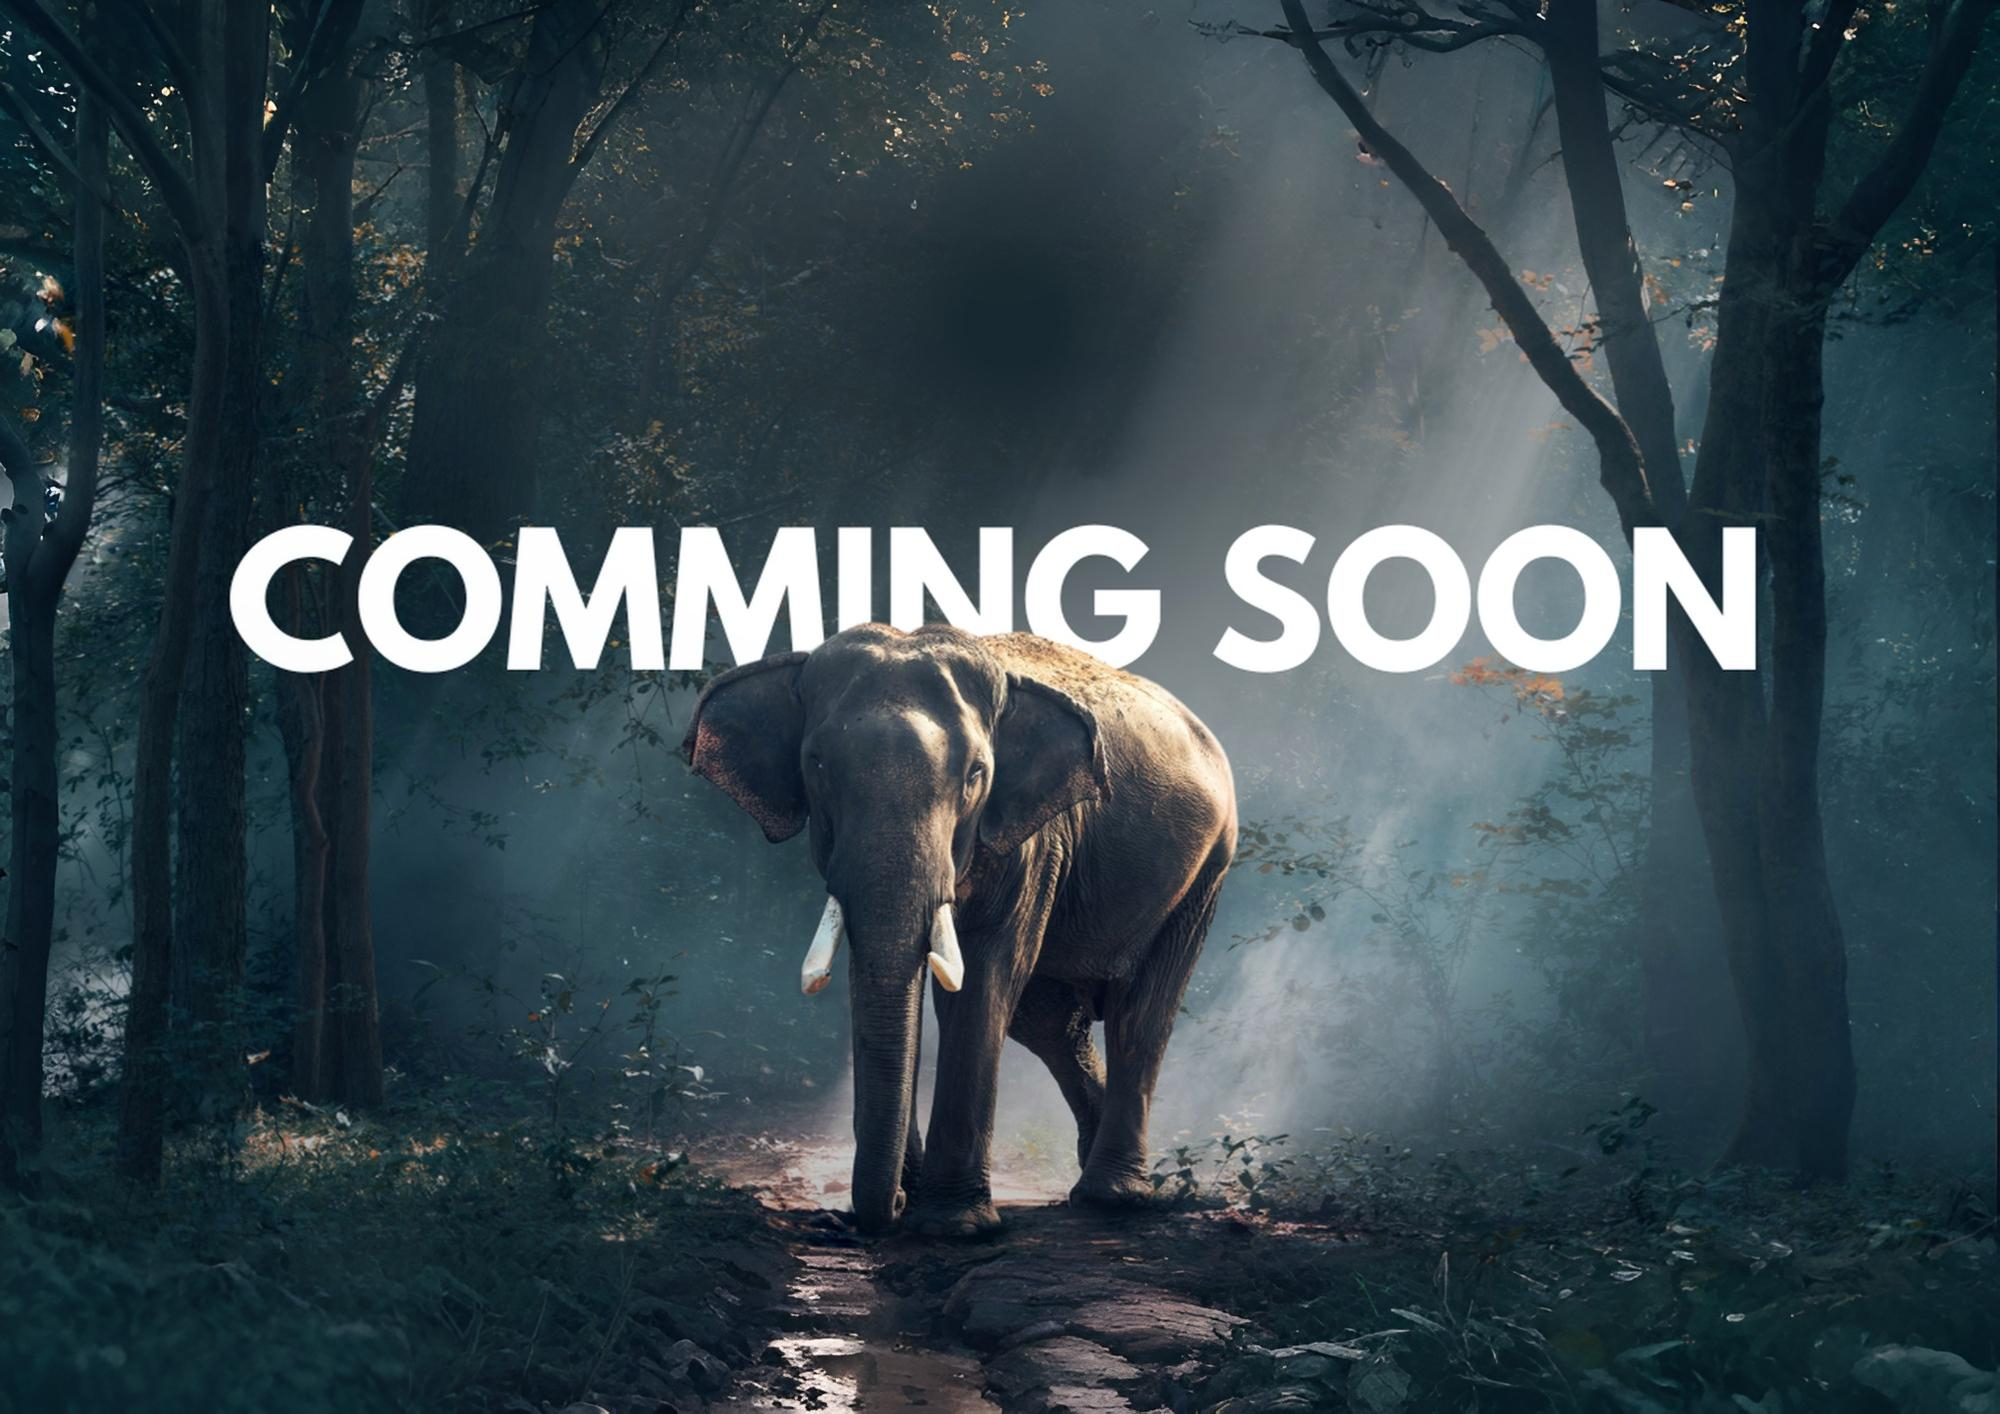
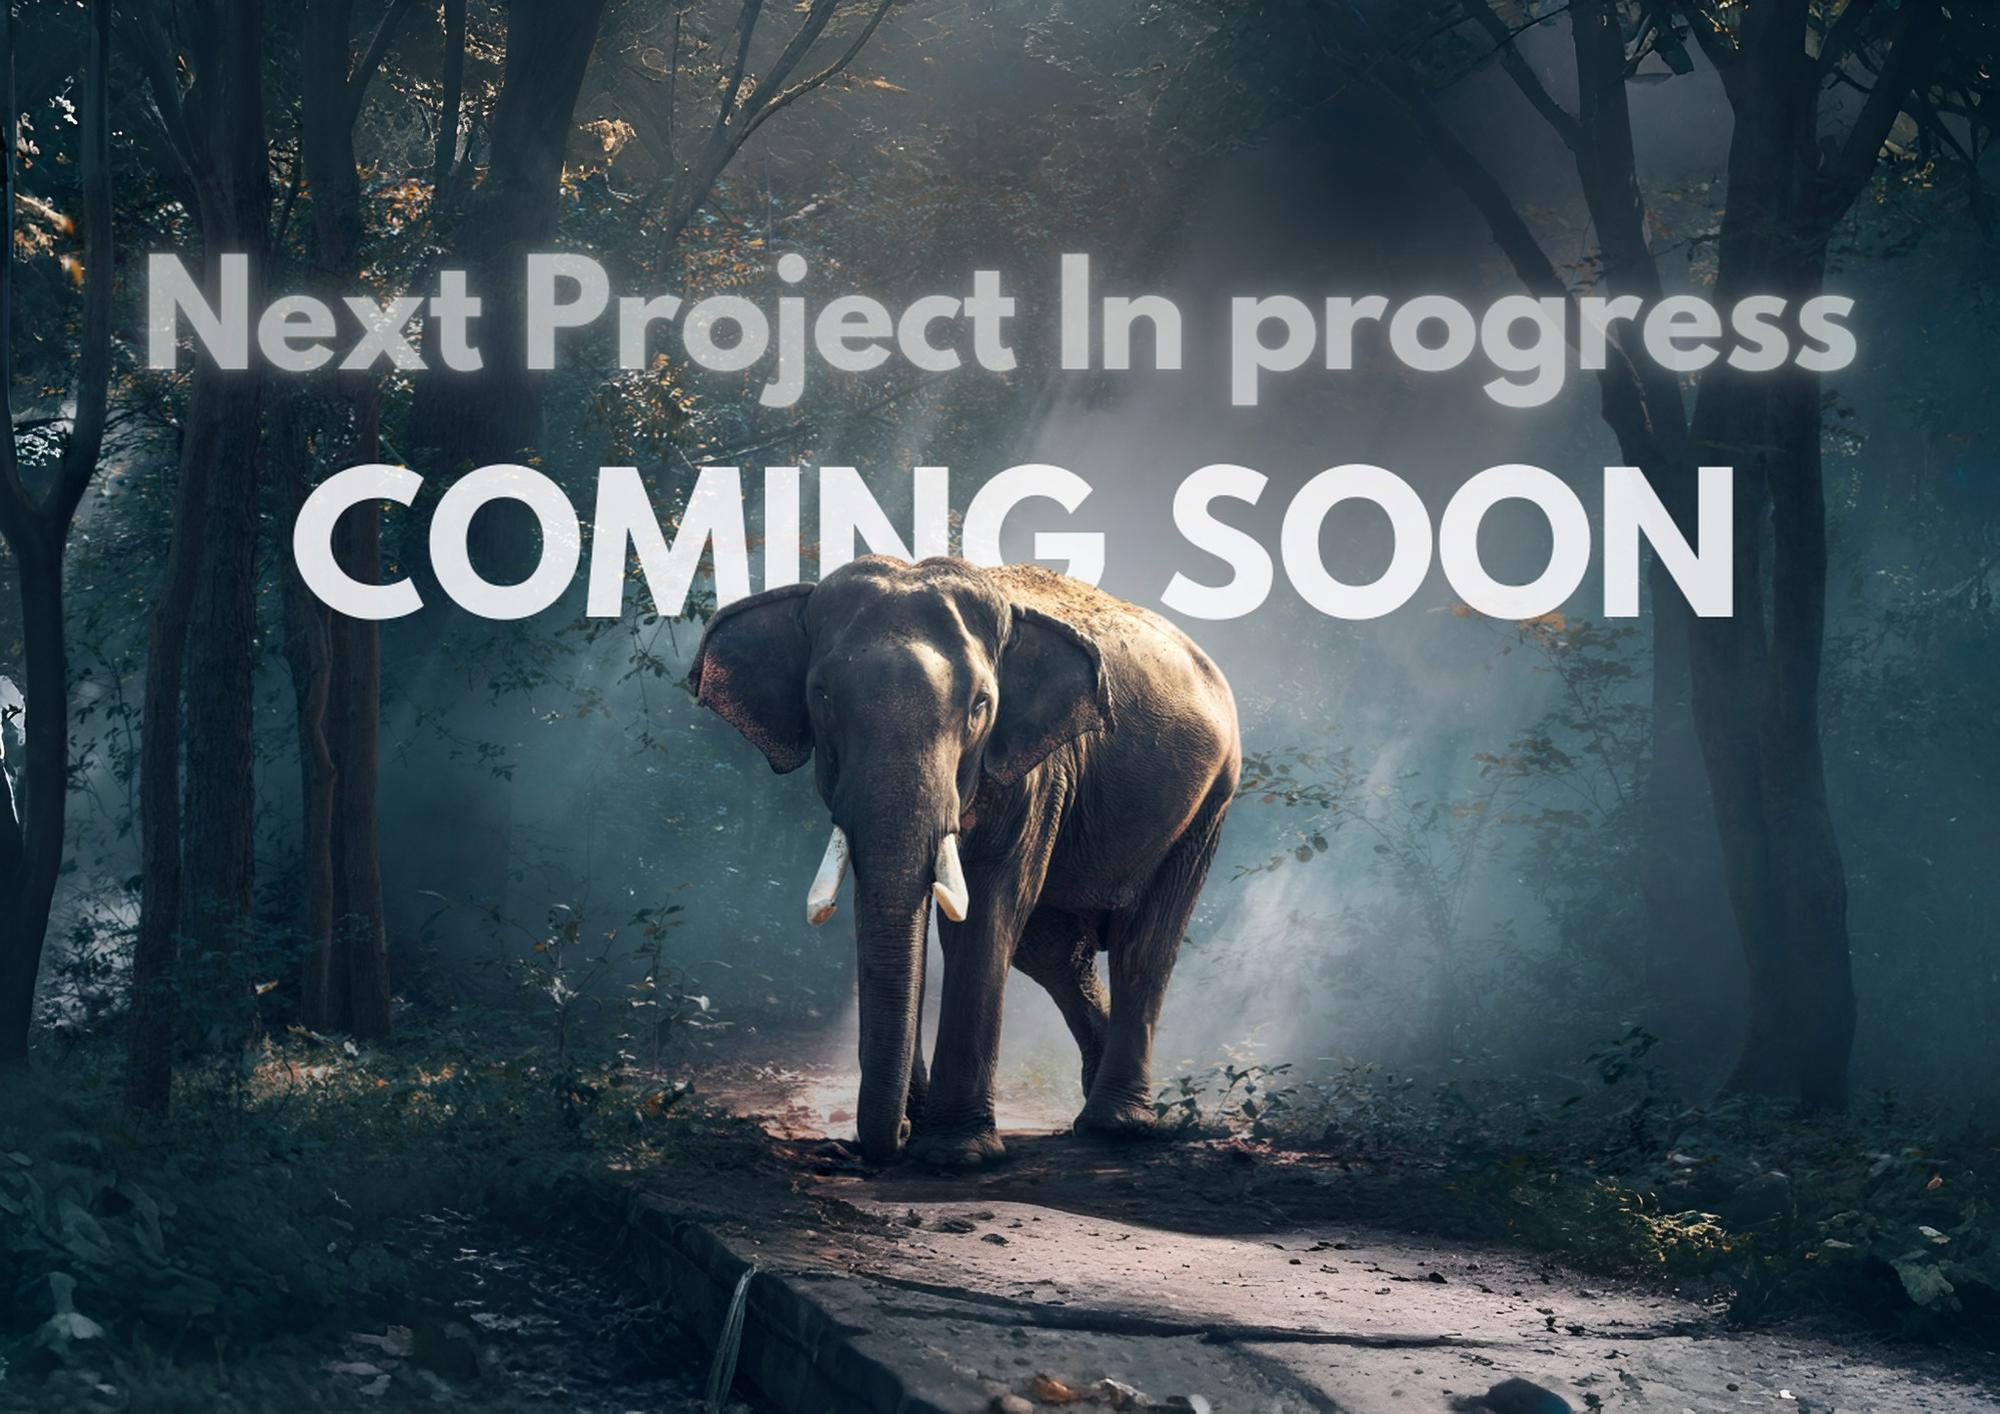
updated up comming project image

diff --git a/about.html b/about.html
@@ -38,7 +38,7 @@
 					<a href="index.html"> Home </a>
 					<a href="about.html"> About </a>
 					<a href="projects.html"> Projects </a>
-					<a href="favourite.html"> Interests </a>
+					<a href="Interests.html"> Interests </a>
 					<a href="photography.html"> Photography </a>
 					<a href="contact.html"> Contact </a>
 				</div>	
@@ -66,7 +66,7 @@
 				<h1> <span class="down-border">Abo</span>ut Me </h1>
 			</div>
 			
-			<p class="my-desc">My name is Kawsar Hussain. I'm a student. Programming is my passion. I'm very interested to this. Photography is my favourite hobby. I love listening music, watching movies and internet browsing. I'm not a computer science student, but I love programming. This is my aim. I want to be a professional web developer. Keep me in your prayers.</p>
+			<p class="my-desc">Hi, I’m Kawsar Hussain! I’m a student who’s truly passionate about programming. I'm very interested to this.  Photography is my favourite hobby. I'm not a computer science student, but I love programming. I aspire to become a full-stack web developer. I believe in learning beyond boundaries and following what I love. Keep me in your prayers.</p>
 
 			<div class="bio">
 				<div class="col-6">

diff --git a/Interests.html b/Interests.html
@@ -31,19 +31,17 @@
 </head>
 <body>
 
-
 	<div class="navbar"> 
 			<div class="logo-img"><a href="index.html"><img src="images/logo.png" alt="" class="logo" /></a></div>
 				<div class="nav-link"> 
 					<a href="index.html"> Home </a>
 					<a href="about.html"> About </a>
 					<a href="projects.html"> Projects </a>
-					<a href="favourite.html"> Interests </a>
+					<a href="Interests.html"> Interests </a>
 					<a href="photography.html"> Photography </a>
 					<a href="contact.html"> Contact </a>
 				</div>	
 	</div>
-
 
 	<!-- FAVOURITE START -->
 	
@@ -93,7 +91,7 @@
 				</div>
 				
 			<!-- 1st column end --> 
-				
+				 
 				
 			
 				

diff --git a/photography.html b/photography.html
@@ -38,7 +38,7 @@
 					<a href="index.html"> Home </a>
 					<a href="about.html"> About </a>
 					<a href="projects.html"> Projects </a>
-					<a href="favourite.html"> Interests </a>
+					<a href="Interests.html"> Interests </a>
 					<a href="photography.html"> Photography </a>
 					<a href="contact.html"> Contact </a>
 				</div>	
@@ -288,7 +288,7 @@
 				<div class="col-4"> 
 				
 					<div class="photography-img"> 
-						<img src="images/photography/20220528_215647.jpg" alt="" />
+						<img src="images/photography/20250508_161739.jpg" alt="" />
 						
 						<div class="img-react">
 							<i class="react-icon fa-regular fa-heart"></i>

diff --git a/projects.html b/projects.html
@@ -39,14 +39,14 @@
 					<a href="index.html"> Home </a>
 					<a href="about.html"> About </a>
 					<a href="projects.html"> Projects </a>
-					<a href="favourite.html"> Interests </a>
+					<a href="projects.html"> Interests </a>
 					<a href="photography.html"> Photography </a>
 					<a href="contact.html"> Contact </a>
 				</div>	
 	</div>
 
 	<!-- projects start -->
-	<div id="music"> 
+	<div id="projects"> 
 		<div class="projects-heading">
 			
 			<div class="projects-head">

diff --git a/contact.html b/contact.html
@@ -38,7 +38,7 @@
 					<a href="index.html"> Home </a>
 					<a href="about.html"> About </a>
 					<a href="projects.html"> Projects </a>
-					<a href="favourite.html"> Interests </a>
+					<a href="Interests.html"> Interests </a>
 					<a href="photography.html"> Photography </a>
 					<a href="contact.html"> Contact </a>
 				</div>	

diff --git a/index.html b/index.html
@@ -37,7 +37,7 @@
 					<a href="index.html"> Home </a>
 					<a href="about.html"> About </a>
 					<a href="projects.html"> Projects </a>
-					<a href="favourite.html"> Interests </a>
+					<a href="Interests.html"> Interests </a>
 					<a href="photography.html"> Photography </a>
 					<a href="contact.html"> Contact </a>
 				</div>	
